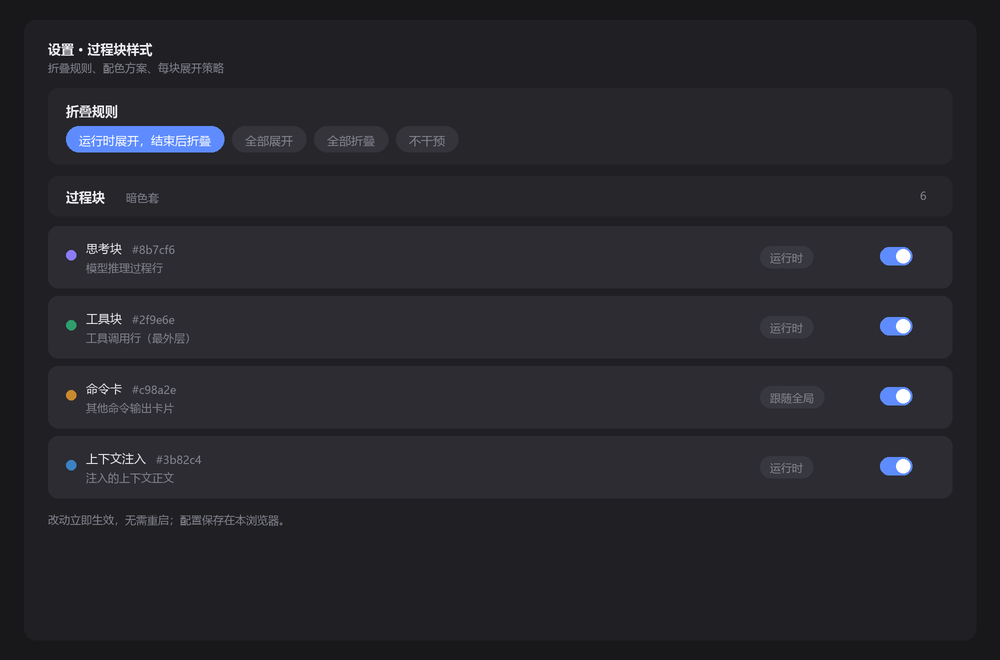
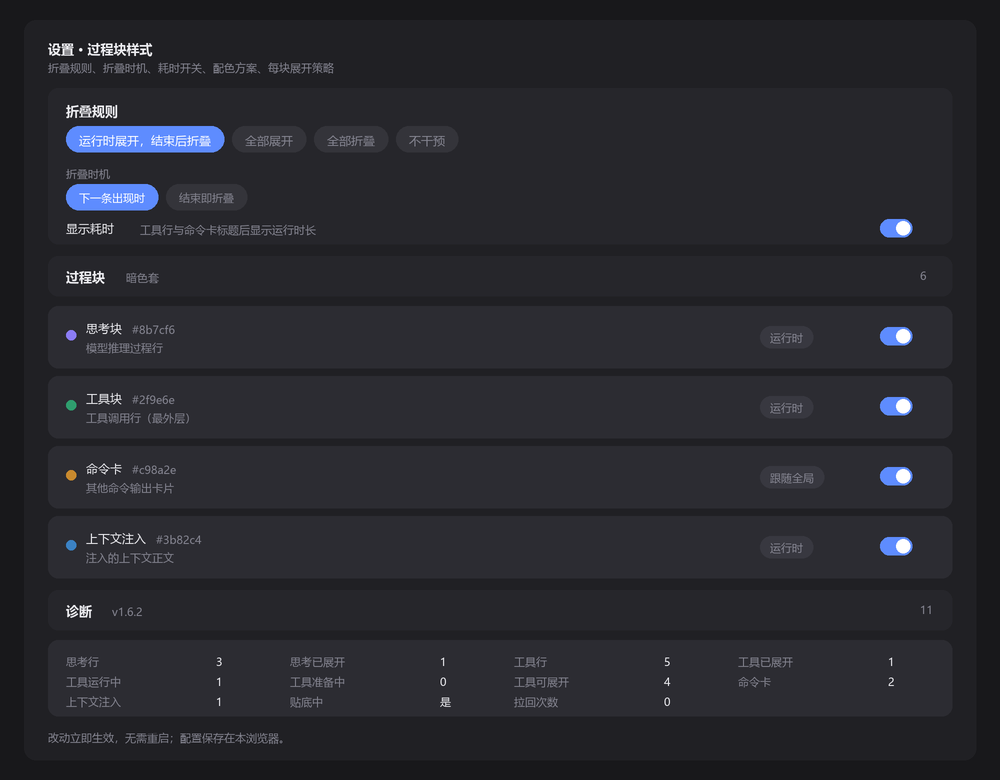
feat: move elapsed switch into the always-visible fold card, refresh screenshots and docs

diff --git a/client.js b/client.js
@@ -1064,6 +1064,27 @@ window.__ModuleLoader__.load({
                 },
               }),
             ),
+            h(
+              'div',
+              { className: 'dte-row' },
+              h(
+                'div',
+                { className: 'dte-row-main' },
+                h('span', { className: 'dte-row-label' }, '显示耗时'),
+                h(
+                  'span',
+                  { className: 'dte-row-hint' },
+                  '工具行与命令卡的标题后显示运行时长，运行中实时递增，结束后定格。',
+                ),
+              ),
+              h(Switch, {
+                checked: current.showTimer,
+                title: '显示耗时',
+                onChange: value => {
+                  update({ showTimer: value });
+                },
+              }),
+            ),
           ),
         ),
         h(
@@ -1105,24 +1126,7 @@ window.__ModuleLoader__.load({
         ),
         h(
           Group,
-          { title: '通用', badge: schemeLabel, count: 7, defaultOpen: false },
-          h(
-            Row,
-            null,
-            h(
-              'div',
-              { className: 'dte-row-main' },
-              h('span', { className: 'dte-row-label' }, '显示耗时'),
-              h('span', { className: 'dte-row-hint' }, '在工具行与命令卡标题后显示运行时长，运行中实时递增。'),
-            ),
-            h(Switch, {
-              checked: current.showTimer,
-              title: '显示耗时',
-              onChange: value => {
-                update({ showTimer: value });
-              },
-            }),
-          ),
+          { title: '通用', badge: schemeLabel, count: 6, defaultOpen: false },
           h(
             Row,
             null,

diff --git a/docs/make-shots.py b/docs/make-shots.py
@@ -1,8 +1,8 @@
 """Render the README screenshots.
 
 The plugin styles a live transcript, so the honest illustration is the transcript
-itself: same block kinds, same accent bars, same tints, drawn at 2x and downscaled
-for a crisp result. Run with the bundled Python:
+itself: same block kinds, same accent bars, same tints, same elapsed badges,
+drawn at 2x and downscaled for a crisp result. Run with the bundled Python:
 
     python docs/make-shots.py
 """
@@ -20,7 +20,6 @@ SCALE = 2
 FONT_DIR = r"C:\Windows\Fonts"
 UI = os.path.join(FONT_DIR, "msyh.ttc")
 UI_BOLD = os.path.join(FONT_DIR, "msyhbd.ttc")
-MONO = os.path.join(FONT_DIR, "consola.ttf")
 
 
 def font(path: str, size: int) -> ImageFont.FreeTypeFont:
@@ -54,6 +53,9 @@ class Canvas:
     def text(self, x: float, y: float, value: str, fnt, fill) -> None:
         self.draw.text((self.px(x), self.px(y)), value, font=fnt, fill=fill)
 
+    def width_of(self, value: str, fnt) -> float:
+        return self.draw.textlength(value, font=fnt) / SCALE
+
     def save(self, name: str) -> None:
         target = os.path.join(OUT, name)
         self.image.resize((self.width, self.height), Image.LANCZOS).save(target, optimize=True)
@@ -78,6 +80,7 @@ def block(
     meta_color,
     body_color,
     live: bool = False,
+    elapsed: str | None = None,
 ) -> float:
     """One transcript process block: accent bar, tinted surface, title, body."""
     pad_top, pad_bottom, line_height = 9, 10, 21
@@ -89,8 +92,11 @@ def block(
         fill=color,
     )
     canvas.text(x + 16, y + pad_top, title, title_font, title_color)
-    title_width = canvas.draw.textlength(title, font=title_font) / SCALE
-    canvas.text(x + 16 + title_width + 10, y + pad_top + 3, meta, meta_font, meta_color)
+    cursor = x + 16 + canvas.width_of(title, title_font) + 10
+    canvas.text(cursor, y + pad_top + 3, meta, meta_font, meta_color)
+    if elapsed is not None:
+        cursor += canvas.width_of(meta, meta_font) + 8
+        canvas.text(cursor, y + pad_top + 3, elapsed, meta_font, color if live else meta_color)
     if live:
         dot_x = x + w - 22
         canvas.draw.ellipse(
@@ -142,7 +148,7 @@ def transcript(name: str, *, dark: bool) -> None:
     label_font = font(UI, 12)
 
     canvas.text(48, 40, "DSH · 会话", title_font, title_color)
-    canvas.text(48, 60, "过程块在运行中展开，结束后折叠", meta_font, meta_color)
+    canvas.text(48, 60, "过程块在运行中展开，结束后折叠，标题后跟耗时", meta_font, meta_color)
 
     # user turn
     canvas.box(560, 92, 392, 44, 10, user_bg)
@@ -154,19 +160,20 @@ def transcript(name: str, *, dark: bool) -> None:
     color, tint = palette["think"]
     y += block(
         canvas, x, y, w, color, tint,
-        "思考", "12s · 已折叠",
+        "思考", "已折叠",
         [
             "先确认 package.json 里的 build 脚本，再决定并行度。",
             "测试要跑全量，避免只验证改动路径。",
         ],
         title_font=title_font, meta_font=meta_font, body_font=body_font,
         title_color=title_color, meta_color=meta_color, body_color=body_color,
+        elapsed="12.4s",
     ) + 10
 
     color, tint = palette["tool"]
     y += block(
         canvas, x, y, w, color, tint,
-        "读取", "package.json · 运行中",
+        "读取", "package.json",
         [
             '"scripts": {',
             '  "build": "tsc -b && vite build",',
@@ -175,19 +182,20 @@ def transcript(name: str, *, dark: bool) -> None:
         ],
         title_font=title_font, meta_font=meta_font, body_font=body_font,
         title_color=title_color, meta_color=meta_color, body_color=body_color,
-        live=True,
+        live=True, elapsed="1.8s",
     ) + 10
 
     color, tint = palette["command"]
     y += block(
         canvas, x, y, w, color, tint,
-        "运行", "pnpm build · 退出码 0",
+        "运行", "退出码 0",
         [
             "vite v6.0.3 building for production...",
             "· 412 modules transformed in 3.21s",
         ],
         title_font=title_font, meta_font=meta_font, body_font=body_font,
         title_color=title_color, meta_color=meta_color, body_color=body_color,
+        elapsed="3.2s",
     ) + 10
 
     color, tint = palette["context"]
@@ -203,16 +211,33 @@ def transcript(name: str, *, dark: bool) -> None:
     canvas.save(name)
 
 
+def pill(canvas: Canvas, x: float, y: float, label: str, fnt, active: bool, accent) -> float:
+    width = canvas.width_of(label, fnt) + 26
+    canvas.box(x, y, width, 26, 13, accent if active else (52, 52, 58))
+    canvas.text(x + 13, y + 6, label, fnt, (255, 255, 255) if active else (132, 132, 144))
+    return width
+
+
+def toggle(canvas: Canvas, x: float, y: float, on: bool, accent) -> None:
+    canvas.box(x, y, 32, 18, 9, accent if on else (70, 70, 78))
+    knob_x = x + 16 if on else x + 2
+    canvas.draw.ellipse(
+        [canvas.px(knob_x), canvas.px(y + 2), canvas.px(knob_x + 14), canvas.px(y + 16)],
+        fill=(255, 255, 255),
+    )
+
+
 def settings(name: str) -> None:
     bg = (24, 24, 27)
     panel = (32, 32, 36)
     card = (38, 38, 43)
+    block_card = (44, 44, 50)
     title_color = (236, 236, 240)
     meta_color = (132, 132, 144)
     accent = (94, 140, 255)
 
-    canvas = Canvas(1000, 660, bg)
-    canvas.box(24, 20, 952, 620, 12, panel)
+    canvas = Canvas(1000, 780, bg)
+    canvas.box(24, 20, 952, 740, 12, panel)
 
     title_font = font(UI_BOLD, 13)
     meta_font = font(UI, 11)
@@ -220,25 +245,29 @@ def settings(name: str) -> None:
     small_font = font(UI, 11)
 
     canvas.text(48, 40, "设置 · 过程块样式", title_font, title_color)
-    canvas.text(48, 60, "折叠规则、配色方案、每块展开策略", meta_font, meta_color)
+    canvas.text(48, 60, "折叠规则、折叠时机、耗时开关、配色方案、每块展开策略", meta_font, meta_color)
 
-    # fold rule card
-    canvas.box(48, 88, 904, 76, 10, card)
+    # fold rule card: modes, timing, timer switch
+    canvas.box(48, 88, 904, 156, 10, card)
     canvas.text(66, 102, "折叠规则", title_font, title_color)
-    pills = ["运行时展开，结束后折叠", "全部展开", "全部折叠", "不干预"]
     px = 66
-    for index, pill in enumerate(pills):
-        width = canvas.draw.textlength(pill, font=label_font) / SCALE + 26
-        active = index == 0
-        canvas.box(px, 126, width, 26, 13, accent if active else (52, 52, 58))
-        canvas.text(px + 13, 132, pill, label_font, (255, 255, 255) if active else meta_color)
-        px += width + 8
+    for index, label in enumerate(["运行时展开，结束后折叠", "全部展开", "全部折叠", "不干预"]):
+        px += pill(canvas, px, 126, label, label_font, index == 0, accent) + 8
 
-    # group header
-    canvas.box(48, 176, 904, 40, 10, card)
-    canvas.text(66, 188, "过程块", title_font, title_color)
-    canvas.text(126, 190, "暗色套", small_font, meta_color)
-    canvas.text(920, 188, "6", small_font, meta_color)
+    canvas.text(66, 166, "折叠时机", small_font, meta_color)
+    px = 66
+    for index, label in enumerate(["下一条出现时", "结束即折叠"]):
+        px += pill(canvas, px, 184, label, small_font, index == 0, accent) + 8
+
+    canvas.text(66, 220, "显示耗时", label_font, title_color)
+    canvas.text(140, 222, "工具行与命令卡标题后显示运行时长", small_font, meta_color)
+    toggle(canvas, 880, 219, True, accent)
+
+    # process block group
+    canvas.box(48, 256, 904, 40, 10, card)
+    canvas.text(66, 268, "过程块", title_font, title_color)
+    canvas.text(126, 270, "暗色套", small_font, meta_color)
+    canvas.text(920, 268, "6", small_font, meta_color)
 
     rows = [
         ("思考块", "#8b7cf6", "模型推理过程行", "运行时", True),
@@ -246,30 +275,42 @@ def settings(name: str) -> None:
         ("命令卡", "#c98a2e", "其他命令输出卡片", "跟随全局", True),
         ("上下文注入", "#3b82c4", "注入的上下文正文", "运行时", True),
     ]
-    y = 226
+    y = 306
     for label, hex_color, hint, mode, on in rows:
-        canvas.box(48, y, 904, 62, 10, (44, 44, 50))
+        canvas.box(48, y, 904, 62, 10, block_card)
         rgb = tuple(int(hex_color[i : i + 2], 16) for i in (1, 3, 5))
         canvas.draw.ellipse(
             [canvas.px(66), canvas.px(y + 24), canvas.px(76), canvas.px(y + 34)], fill=rgb
         )
         canvas.text(86, y + 14, label, label_font, title_color)
         canvas.text(86, y + 34, hint, small_font, meta_color)
-        canvas.text(86 + canvas.draw.textlength(label, font=label_font) / SCALE + 10, y + 16, hex_color, small_font, meta_color)
-        # mode pill
-        mode_width = canvas.draw.textlength(mode, font=small_font) / SCALE + 20
+        canvas.text(86 + canvas.width_of(label, label_font) + 10, y + 16, hex_color, small_font, meta_color)
+        mode_width = canvas.width_of(mode, small_font) + 20
         canvas.box(760, y + 20, mode_width, 22, 11, (56, 56, 64))
         canvas.text(770, y + 24, mode, small_font, meta_color)
-        # switch
-        canvas.box(880, y + 21, 32, 18, 9, accent if on else (70, 70, 78))
-        knob_x = 896 if on else 882
-        canvas.draw.ellipse(
-            [canvas.px(knob_x), canvas.px(y + 23), canvas.px(knob_x + 14), canvas.px(y + 37)],
-            fill=(255, 255, 255),
-        )
+        toggle(canvas, 880, y + 21, on, accent)
         y += 70
 
-    canvas.text(48, y + 6, "改动立即生效，无需重启；配置保存在本浏览器。", small_font, meta_color)
+    # diagnostics group
+    canvas.box(48, 590, 904, 40, 10, card)
+    canvas.text(66, 602, "诊断", title_font, title_color)
+    canvas.text(112, 604, "v1.6.2", small_font, meta_color)
+    canvas.text(920, 602, "11", small_font, meta_color)
+
+    canvas.box(48, 640, 904, 76, 10, block_card)
+    metrics = [
+        ("思考行", "3"), ("思考已展开", "1"), ("工具行", "5"), ("工具已展开", "1"),
+        ("工具运行中", "1"), ("工具准备中", "0"), ("工具可展开", "4"), ("命令卡", "2"),
+        ("上下文注入", "1"), ("贴底中", "是"), ("拉回次数", "0"),
+    ]
+    for index, (label, value) in enumerate(metrics):
+        column, row = index % 4, index // 4
+        mx = 66 + column * 224
+        my = 654 + row * 20
+        canvas.text(mx, my, label, small_font, meta_color)
+        canvas.text(mx + 150, my, value, small_font, title_color)
+
+    canvas.text(48, 730, "改动立即生效，无需重启；配置保存在本浏览器。", small_font, meta_color)
     canvas.save(name)
 
 

diff --git a/README.en.md b/README.en.md
@@ -12,7 +12,7 @@
 
 **Thinking · Tools · Commands · Context injection — open while running, fold when done**
 
-> **Current version `1.4.0`** · Verified on the **DSH `0.2.2-rc.3`** Web UI.
+> **Current version `1.6.2`** · Verified on the **DSH `0.2.2-rc.3`** Web UI.
 > It does not take over rendering — it drives the upstream disclosure controls, so DSH upgrades usually need no plugin change.
 
 </div>
@@ -44,7 +44,10 @@ So this is not "a toggle for DSH". It is **unfolding the process the way pi-web 
 - **🎨 Twelve configurable block types** — thinking, tools, command cards, context injection, compaction markers, process groups, turn tails, user bubbles, running status, queue, todos, steering messages.
 - **📐 Adjustable geometry** — accent bar width, corner radius, block/inline/left padding, running tint strength, font size, font family.
 - **⚡ Instant effect** — configuration lives in browser `localStorage`; no Host restart, no reinstall.
-- **🔍 Built-in diagnostics** — the settings page reports how many rows the plugin actually sees, how many are expandable, and how many are open.
+- **⏱ Elapsed badges** — tool rows and command cards show their run time after the title, ticking while running and freezing when settled. Historical rows show nothing rather than a fabricated number.
+- **🕗 Configurable fold timing** — "on next row" (default) keeps a finished row open until the next process row arrives; "on end" folds it immediately. Whether the last process row folds when the turn ends in prose is a separate switch.
+- **📌 Bottom pinning** — when upstream throws the viewport upward mid-run (spacer reclaim, history trimming, a fold shrinking content), the plugin pulls it straight back. Only the wheel, touch, paging keys and scrollbar drags count as you taking over.
+- **🔍 Built-in diagnostics** — the settings page reports how many rows the plugin actually sees, how many are expandable, how many are open, whether the viewport is pinned, and how many times it was pulled back.
 
 ![Settings page](https://raw.githubusercontent.com/cstcood/dsh-live-process/main/docs/screenshots/settings.png)
 
@@ -63,7 +66,7 @@ Or add it to the profile `package.json` by hand:
 ```json
 {
   "dependencies": {
-    "@cstcood/dsh-live-process": "^1.4.0"
+    "@cstcood/dsh-live-process": "^1.6.2"
   }
 }
 ```
@@ -112,12 +115,12 @@ Open Settings → **Process block styles**.
 | Section | Contents |
 | --- | --- |
 | Palette | Follow UI / dark / light — decides which palette the sections below edit |
-| Fold rule | The four global modes, the fold timing and the last-row switch, always visible |
+| Fold rule | The four global modes, the fold timing, the last-row switch and the elapsed-badge switch, always visible |
 | Process blocks | Thinking, tools, command cards, context injection, compaction, process groups |
 | Other blocks | Turn tail, user bubble, running status, queue, todos, steering |
-| Common | Elapsed time, font family, running tint, bar width, radius, three paddings |
+| Common | Font family, running tint, bar width, radius, three paddings |
 | Preview | Live rendering of every enabled block in the current palette |
-| Diagnostics | Live row counts and plugin version |
+| Diagnostics | Live row counts, pin state, pull-back count and plugin version |
 
 Each block card carries a color dot with its hex value, an enable switch, a fold-mode pill, a color picker, a tint slider and a font size.
 
@@ -131,6 +134,7 @@ Under the `auto` mode, when a finished row folds is decided by two settings:
 | | On end | A row folds the moment it stops producing |
 | Fold the last row | Off (default) | The last process row has no successor, so it stays open |
 | | On | It folds even when nothing follows it |
+| Show elapsed | On (default) | Tool rows and command cards carry a run-time badge after the title |
 
 "Last row" means a turn that ends with assistant prose: no process row will ever follow, so `on next row` would wait forever. That is why it gets its own switch.
 

diff --git a/CHANGELOG.md b/CHANGELOG.md
@@ -16,7 +16,7 @@
 - 新增耗时徽章：工具行与命令卡的标题后显示运行时长，运行中实时递增，结束后定格。起点是该行首次出现在 DOM 的时刻，终点是 `data-state` 落到 `ok` / `error` / `stopped` 的时刻。
 - 页面加载时已在屏上的历史行不显示耗时——真实起点无从得知，不编造数字。
 - 徽章挂在 disclosure header 上，React 状态变化不会重建它；万一被移除，下一帧自动补回。
-- 新增 `showTimer` 开关（默认开），位置在 设置 → 过程块样式 → 通用。
+- 新增 `showTimer` 开关（默认开），位置在 设置 → 过程块样式 → 折叠规则（常驻卡片，不用展开分组就能看到）。
 
 ## 1.5.1
 
